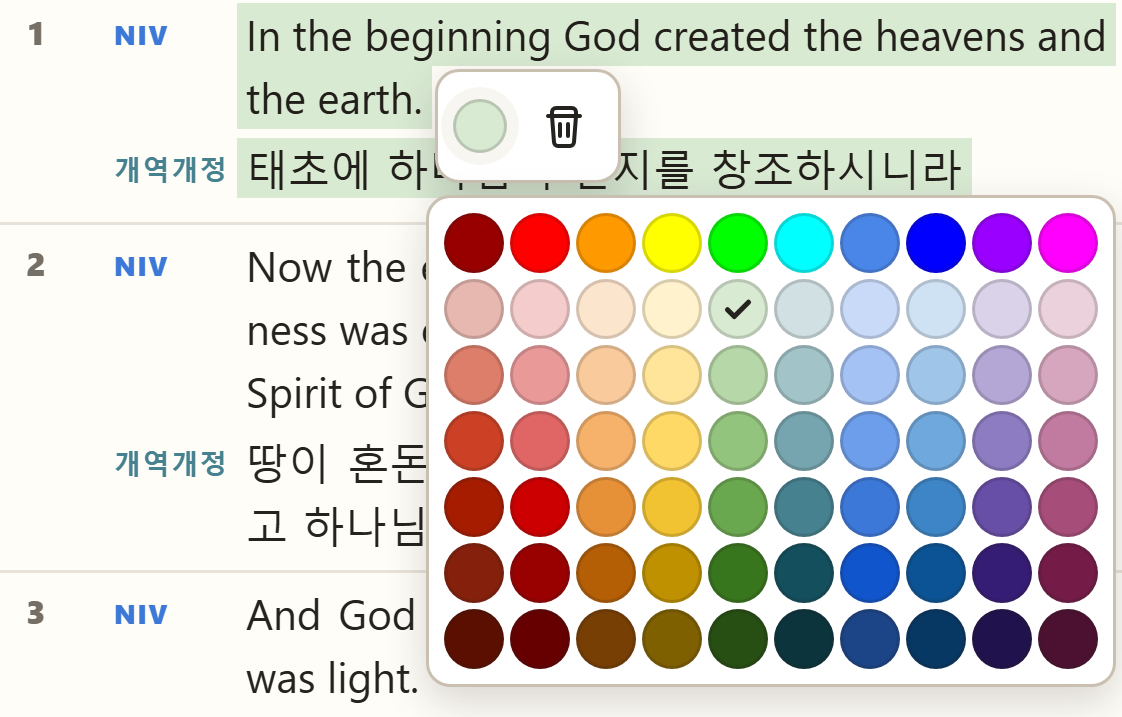
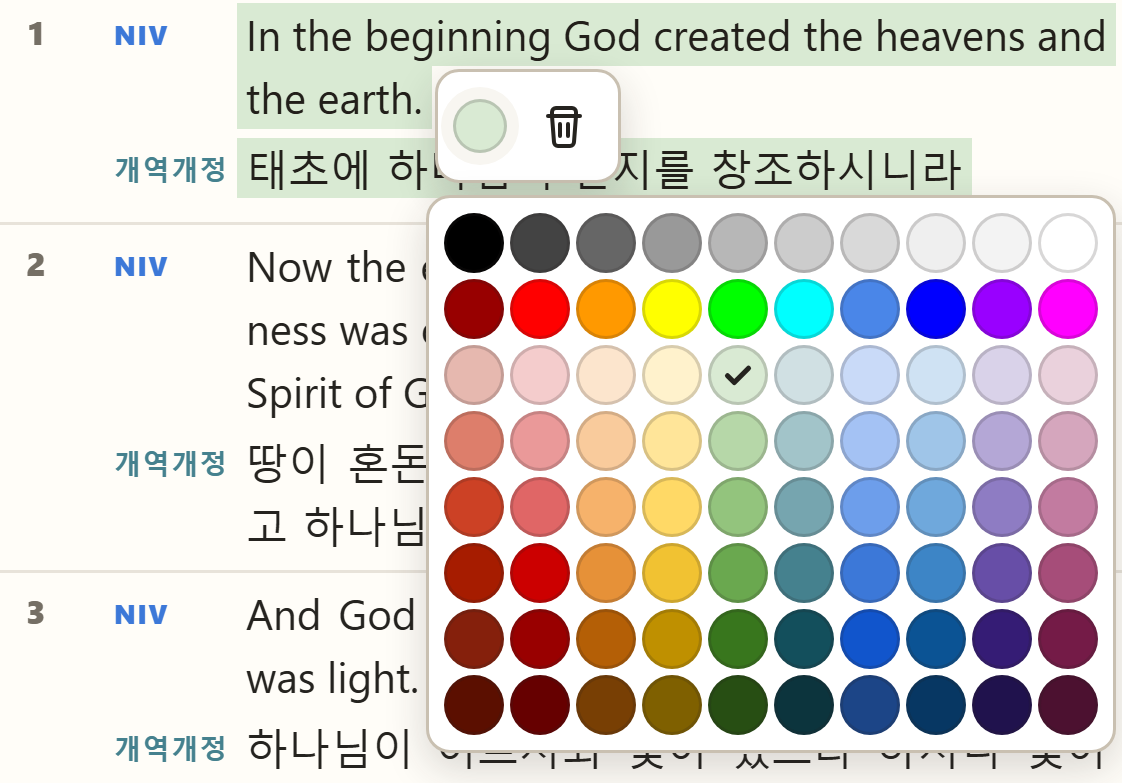
Put the black-to-white gray row back into the highlight palette, so it is the whole 8 x 10 text-color palette
- The highlight dialog's Color grid and the highlight popup's palette card now
  show all 80 cells of the text-color palette, the gray ramp from black to white
  on top included (they were the 70 colored cells). The cells are the same
  buttons and the same look as the text palette; a highlight still has no ring
  and no "no pick" end of the gray row -- every cell is just a color.
- HIGHLIGHT_PALETTE_COLORS is now the text palette's own flat cell list. A saved
  highlight that is a gray, black or white is a cell and stays as saved; a hex
  that is no cell still snaps to the nearest of the 80. The six old color names
  keep their light-tint cells, and the dialog still starts on the light red one.
- The ink on a highlight is unchanged in kind and now also covers the grays:
  white on black and the dark grays, the usual dark ink from the mid-gray
  (#999999) up to white.
- The Info dialog's highlight screenshot is retaken with the 8 x 10 card.
- Asset version 20261001-34.

diff --git a/app.js b/app.js
@@ -98,15 +98,12 @@ const HEX_COLOR_PATTERN = /^#[0-9a-f]{6}$/;
 const DARK_TEXT_SURFACE = "#2c2721";
 const DARK_TEXT_MIN_CONTRAST = 4.7;
 
-// A highlight's fill comes from the same palette as a text color (see
-// TEXT_COLOR_PALETTE), less its first row: the black-to-white grays make no
-// sense as a highlighter's ink, so what is left is the colored rows -- the
-// ten bright bases, their three light tints and three dark shades: 7 rows x
-// 10 columns, 70 cells. A highlight is saved as the hex of its cell. There is
-// no "default" cell here (nothing like a translation's accent color to ring):
-// every cell is just a color.
-const HIGHLIGHT_COLOR_PALETTE = TEXT_COLOR_PALETTE.slice(1);
-const HIGHLIGHT_PALETTE_COLORS = HIGHLIGHT_COLOR_PALETTE.flat();
+// A highlight's fill comes from the very same palette as a text color (see
+// TEXT_COLOR_PALETTE): 8 rows x 10 columns, 80 cells, the black-to-white gray
+// row included. A highlight is saved as the hex of its cell. Unlike a text
+// color, no cell stands for "no pick", and none is a translation's own accent
+// color to ring: every cell is just a color.
+const HIGHLIGHT_PALETTE_COLORS = PALETTE_COLORS;
 // The six named colors earlier saves hold (the old picker's pastels: #ffd9d9,
 // #ffebd3, #fff9cf, #dbf2d7, #d9ecfb, #eee2f8), each on the cell of the
 // palette's first light-tint row ("light ... 3") of the same hue -- the nearest
@@ -296,11 +293,10 @@ function chromaticTextColor(color) {
 }
 
 // A saved highlight color as the highlight palette stores it: the lowercase
-// hex of one of its 70 cells. One of the six names an earlier save holds
+// hex of one of its 80 cells. One of the six names an earlier save holds
 // becomes its cell (see LEGACY_HIGHLIGHT_COLORS); a hex that is no cell of the
-// palette (a gray from the text palette, say) moves to the nearest cell, so
-// the grid can always show which color a highlight has. Anything else is
-// dropped, and the highlight with it.
+// palette moves to the nearest cell, so the grid can always show which color a
+// highlight has. Anything else is dropped, and the highlight with it.
 function normalizedHighlightColor(value) {
   if (typeof value !== "string") return null;
   if (Object.hasOwn(LEGACY_HIGHLIGHT_COLORS, value)) return LEGACY_HIGHLIGHT_COLORS[value];
@@ -540,7 +536,7 @@ const highlightTranslationPickerToggle = document.querySelector("#highlight-tran
 const highlightTranslationPickerMenu = document.querySelector("#highlight-translation-picker-menu");
 const highlightStatus = document.querySelector("#highlight-status");
 // The dialog's own color picker: the highlight palette (see
-// HIGHLIGHT_COLOR_PALETTE) laid out right in the dialog -- its cells are built
+// HIGHLIGHT_PALETTE_COLORS) laid out right in the dialog -- its cells are built
 // at startup (see highlightDialogColorCells).
 const highlightColorGrid = document.querySelector("#highlight-color-grid");
 const highlightManagePopup = document.querySelector("#highlight-manage-popup");
@@ -7539,9 +7535,9 @@ function closeCopyDialog() {
 // version picker, showModal/populate/close), minus reading mode (a
 // highlight has no "reading style" to render) and with the copy dialog's
 // own Order fieldset swapped for the highlight palette (see
-// setHighlightColor and #highlight-color-grid in index.html: 7 rows x 10
-// columns of the same circular cells as the text-color palette) instead of
-// verse/version ordering, which has nothing to mean for a highlight. ----
+// setHighlightColor and #highlight-color-grid in index.html: the text-color
+// palette's 8 rows x 10 columns of circular cells) instead of verse/version
+// ordering, which has nothing to mean for a highlight. ----
 function highlightRangeVerseItems() {
   const verses = highlightChapterDataCache?.v.map(([verse]) => Number(verse)) ?? [1];
   return verses.map((verse) => ({ value: verse, label: String(verse) }));
@@ -7947,7 +7943,7 @@ function positionHighlightManagePopup() {
   highlightManagePopup.style.top = `${top}px`;
 }
 
-// The manage popup's palette cells -- the same 70 as the dialog's, in a
+// The manage popup's palette cells -- the same 80 as the dialog's, in a
 // floating card (#highlight-color-popup) that its color circle opens right
 // under the popup; built once at startup.
 const highlightPopupColorCells = HIGHLIGHT_PALETTE_COLORS.map((hex) => {

diff --git a/index.html b/index.html
@@ -23,7 +23,7 @@
     <meta name="twitter:title" content="United Bibles" />
     <meta name="twitter:description" content="A compact multi-panel Bible reader" />
     <meta name="twitter:image" content="https://unitedbibles.org/icons/icon-512.png" />
-    <meta name="asset-version" content="20261001-33" />
+    <meta name="asset-version" content="20261001-34" />
     <meta name="theme-color" content="#284f43" />
     <meta name="apple-mobile-web-app-capable" content="yes" />
     <meta name="apple-mobile-web-app-status-bar-style" content="default" /> 
@@ -32,7 +32,7 @@
     <link rel="manifest" href="./manifest.webmanifest" />
     <link rel="icon" type="image/png" href="./icons/icon-192.png" />
     <link rel="apple-touch-icon" sizes="180x180" href="./icons/icon-180.png" />
-    <link rel="stylesheet" href="./styles.css?v=20261001-33" />
+    <link rel="stylesheet" href="./styles.css?v=20261001-34" />
     <!-- Applies the saved theme before first paint so a dark-theme visitor
          never sees a light-theme flash while app.js's module script (and
          its manifest.json fetch) is still loading. Reads the same
@@ -507,8 +507,8 @@
 
         <fieldset>
           <legend>Color</legend>
-          <!-- The 7 x 10 highlight palette (HIGHLIGHT_COLOR_PALETTE in app.js:
-               the text-color palette minus its gray row); its 70 cell
+          <!-- The 8 x 10 highlight palette (HIGHLIGHT_PALETTE_COLORS in app.js:
+               the very same cells as the text-color palette); its 80 cell
                buttons are built by app.js. -->
           <div class="highlight-color-grid" id="highlight-color-grid" role="radiogroup" aria-label="Highlight color"></div>
         </fieldset>
@@ -1601,8 +1601,8 @@
       </button>
     </div>
 
-    <!-- The 7 x 10 highlight palette as a floating card (same look as
-         #chip-color-popup); its 70 cell buttons are built by app.js. -->
+    <!-- The 8 x 10 highlight palette as a floating card (same look as
+         #chip-color-popup); its 80 cell buttons are built by app.js. -->
     <div class="chip-color-popup" id="highlight-color-popup" hidden role="radiogroup" aria-label="Highlight color"></div>
 
     <div class="bookmark-manage-popup" id="bookmark-manage-popup" hidden>
@@ -1663,6 +1663,6 @@
     </div>
 
     <noscript>JavaScript is required to display the Bible text.</noscript>
-    <script type="module" src="./app.js?v=20261001-33"></script>
+    <script type="module" src="./app.js?v=20261001-34"></script>
   </body>
 </html>

diff --git a/styles.css b/styles.css
@@ -8156,11 +8156,12 @@ body * {
 
 /* ---- Highlight dialog's color picker, in the exact spot the copy
    dialog's own Order fieldset (verse-by-verse/version-by-version) sits --
-   the highlight palette (HIGHLIGHT_COLOR_PALETTE in app.js: the text-color
-   palette less its gray row) laid out in place rather than as a floating
-   card: 10 columns by 7 rows of the very same circular cells (.chip-color-cell
-   -- see the text-color palette further down), centered, one checked at a time
-   (radiogroup). The check mark is the whole selected look, same as there. ---- */
+   the highlight palette (HIGHLIGHT_PALETTE_COLORS in app.js: the very same
+   cells as the text-color palette) laid out in place rather than as a
+   floating card: 10 columns by 8 rows of the same circular cells
+   (.chip-color-cell -- see the text-color palette further down), centered, one
+   checked at a time (radiogroup). The check mark is the whole selected look,
+   same as there. ---- */
 .highlight-color-grid {
   display: grid;
   grid-template-columns: repeat(10, 22px);
@@ -8499,11 +8500,12 @@ body * {
    reads better on that color (data-check, set when the cells are built);
    there is deliberately no other selected look.
 
-   The highlight palette (the same cells less the gray row, so 7 rows) reuses
+   The highlight palette (the very same 80 cells, the gray row included) reuses
    all of this -- as the same kind of card under the highlight manage popup
    (#highlight-color-popup), and in place in the highlight dialog
-   (.highlight-color-grid above). It has no ring: a highlight has no default
-   color of its own to mark. */
+   (.highlight-color-grid above). It has no ring, and no end of the gray row
+   stands for "no pick": a highlight has no default color of its own to mark,
+   so every cell is just a color. */
 .chip-color-popup {
   position: fixed;
   z-index: 30;
